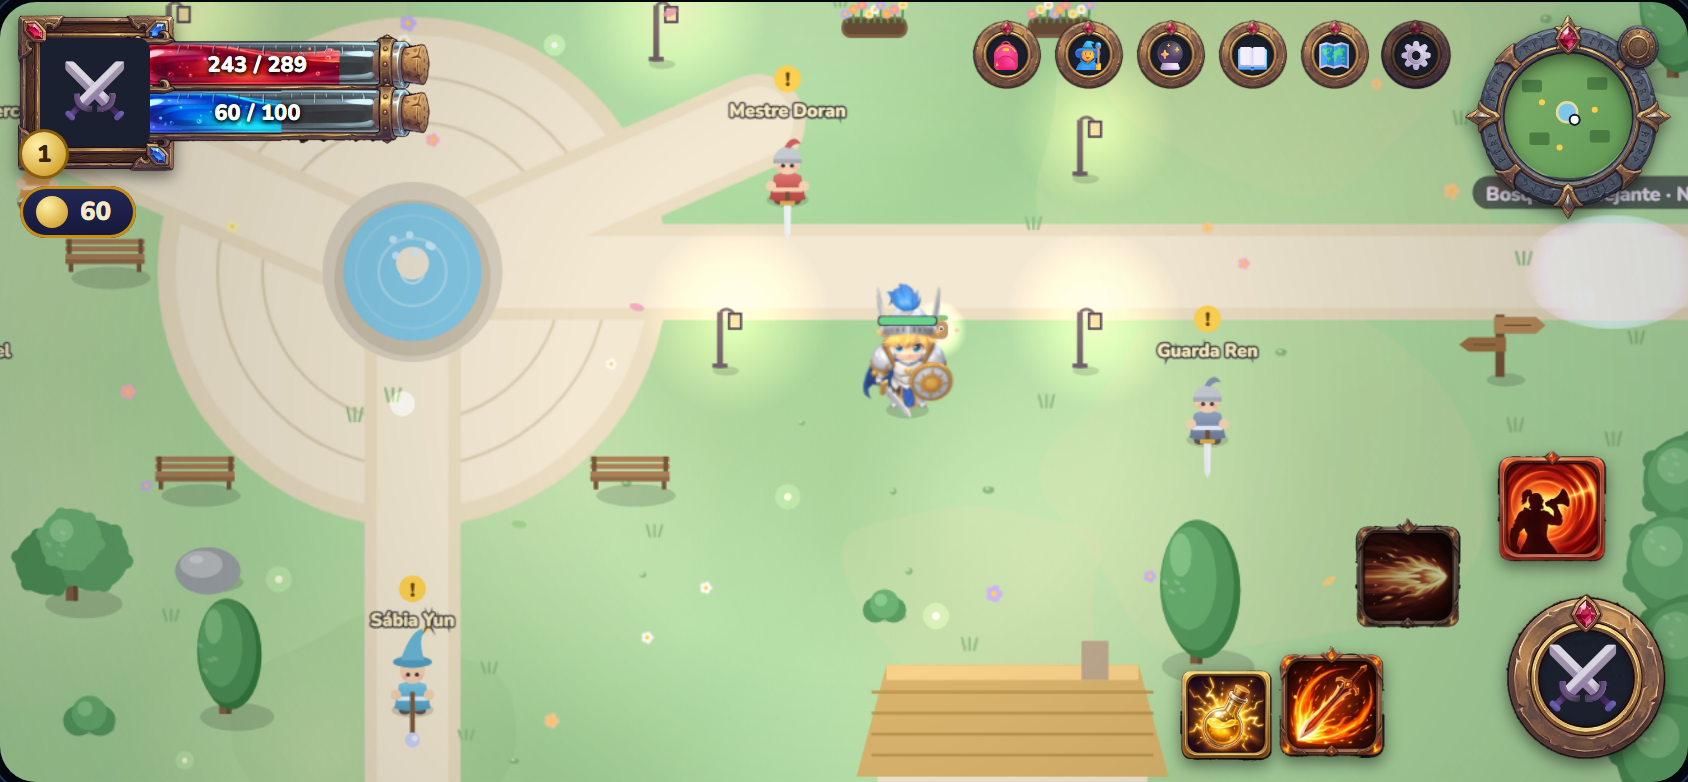
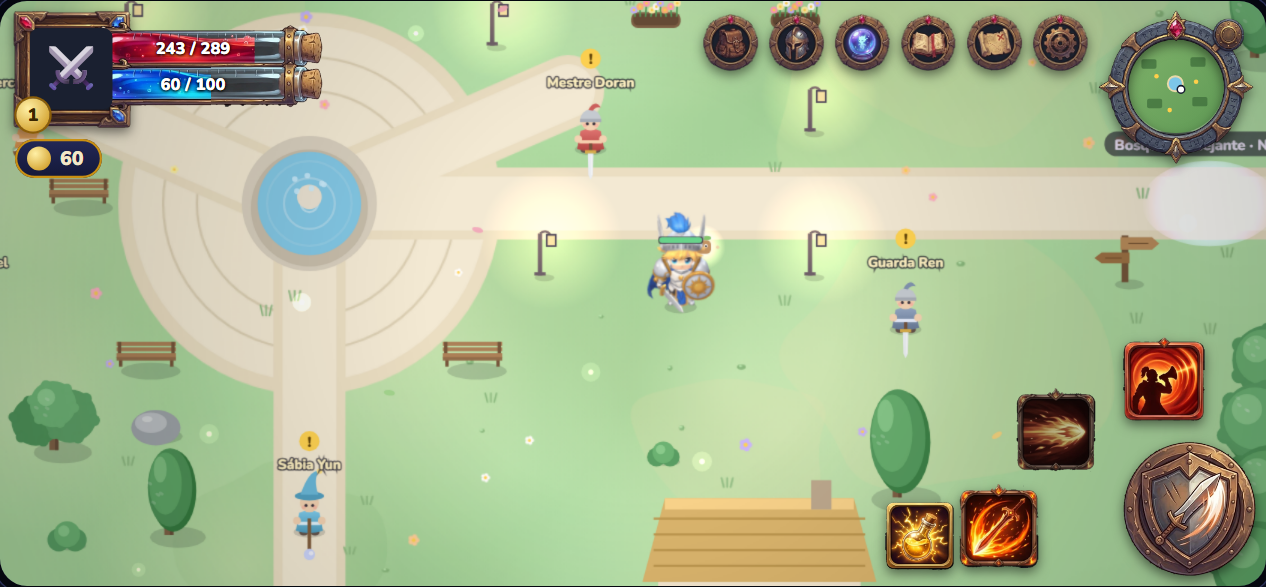
Ataque basico pintado das 4 classes no jogo real; recorte das 21 pecas da segunda leva (dica, faixa, dialogo, raridades, menu); HUD e kit do laboratorio com as pecas pintadas

diff --git a/public/labs/b1-ui/hud.html b/public/labs/b1-ui/hud.html
@@ -38,7 +38,7 @@
   /* medalhões de menu (3 estados) com ícone por cima */
   .med { position: relative; width: 36px; height: 36.7px; }
   .med img { position: absolute; inset: 0; width: 100%; height: 100%; } .med span { position: absolute; inset: 0; display: grid; place-items: center; font-size: 15px; padding-top: 2px; }
-  .menu { right: 118px; top: 8px; display: flex; gap: 5px; }
+  .menu { right: 118px; top: 8px; display: flex; gap: 6px; } .menu .mi { width: 38px; height: auto; }
   .med.off img { content: url(../../assets/ui/medal-disabled.webp); } .med.pressed img { content: url(../../assets/ui/medal-pressed.webp); }
 
   .skill { position: absolute; width: 56px; height: 56px; }
@@ -54,21 +54,21 @@
 <body>
 <main>
   <h1>HUD com as peças pintadas — proposta</h1>
-  <p class="n">Cartão do herói, barras de vida e mana como vidros de poção, minimapa redondo de runas, medalhões de menu, habilidades e botões: todas as peças são as imagens aprovadas (recortadas em <code>public/assets/ui</code>). <b>Provisórios aqui:</b> retrato do herói, ícones de menu e do ataque (emojis). Tamanhos reais de celular (844×390).</p>
+  <p class="n">Cartão do herói, barras de vida e mana como vidros de poção, minimapa redondo de runas, medalhões de menu, habilidades e botões: todas as peças são as imagens aprovadas (recortadas em <code>public/assets/ui</code>). <b>Provisório aqui:</b> só o retrato do herói (emoji); menu e ataque já são os ícones pintados. Tamanhos reais de celular (844×390).</p>
   <div class="stage" id="stage">
     <div class="abs hero"><img class="f" src="../../assets/ui/hero-card.webp" alt="" style="position:absolute;inset:0;width:100%;height:100%"><div class="portrait"><span>⚔</span></div><div class="lvl">1</div></div>
     <div class="vial" style="left:48px;top:13px;--v:.84"><img src="../../assets/ui/vial-empty.webp" alt=""><img class="fill" src="../../assets/ui/vial-hp.webp" alt=""><b>243 / 289</b></div>
     <div class="vial" style="left:48px;top:37px;--v:.6"><img src="../../assets/ui/vial-empty.webp" alt=""><img class="fill" src="../../assets/ui/vial-mp.webp" alt=""><b>60 / 100</b></div>
     <div class="abs gold"><span class="coin"></span>60</div>
 
-    <div class="abs menu"><div class="med"><img src="../../assets/ui/medal-normal.webp" alt=""><span>🎒</span></div><div class="med"><img src="../../assets/ui/medal-normal.webp" alt=""><span>🧙</span></div><div class="med"><img src="../../assets/ui/medal-normal.webp" alt=""><span>🔮</span></div><div class="med"><img src="../../assets/ui/medal-normal.webp" alt=""><span>📖</span></div><div class="med"><img src="../../assets/ui/medal-normal.webp" alt=""><span>🗺</span></div><div class="med pressed"><img src="../../assets/ui/medal-normal.webp" alt=""><span>⚙</span></div></div>
+    <div class="abs menu"><img class="mi f" src="../../assets/icons/menu/menu-bag.webp" alt=""><img class="mi f" src="../../assets/icons/menu/menu-hero.webp" alt=""><img class="mi f" src="../../assets/icons/menu/menu-spirits.webp" alt=""><img class="mi f" src="../../assets/icons/menu/menu-journal.webp" alt=""><img class="mi f" src="../../assets/icons/menu/menu-map.webp" alt=""><img class="mi f" src="../../assets/icons/menu/menu-settings.webp" alt=""></div>
     <div class="abs map"><div class="view"><svg viewBox="0 0 100 100"><g fill="#3d6b3a" opacity=".7"><rect x="14" y="22" width="16" height="10" rx="2"/><rect x="66" y="20" width="16" height="10" rx="2"/><rect x="20" y="64" width="16" height="10" rx="2"/><rect x="68" y="62" width="16" height="10" rx="2"/></g><circle cx="50" cy="48" r="8" fill="#7cc6e8" stroke="#e9d9a8" stroke-width="2"/><circle cx="56" cy="54" r="4" fill="#fff" stroke="#141a2e" stroke-width="1.6"/><g fill="#ffcf4a"><circle cx="30" cy="40" r="2.4"/><circle cx="72" cy="46" r="2.4"/><circle cx="44" cy="76" r="2.4"/></g></svg></div><img class="f" src="../../assets/ui/minimap-ring.webp" alt=""></div>
 
     <div class="skill" style="right:150px;bottom:12px"><img class="f" src="../../assets/icons/skills/whirlwind.webp" alt="" width="56" height="56"></div>
     <div class="skill" style="right:112px;bottom:76px"><img class="f" src="../../assets/icons/skills/charge.webp" alt="" width="56" height="56" style="filter:saturate(.5) brightness(.75)"></div>
     <div class="skill" style="right:40px;bottom:110px"><img class="f" src="../../assets/icons/skills/warcry.webp" alt="" width="56" height="56"></div>
     <div class="skill" style="right:208px;bottom:10px;width:46px;height:46px"><img class="f" src="../../assets/icons/status/potion.webp" alt="" width="46" height="46"></div>
-    <div class="abs med atk"><img class="f" src="../../assets/ui/medal-normal.webp" alt=""><span>⚔</span></div>
+    <img class="abs atk f" src="../../assets/icons/attack/atk-warrior.webp" alt="" style="right:6px;bottom:6px;width:90px;height:auto">
   </div>
 
   <h2>Botões pintados (normal, pressionado, desativado, principal)</h2>

diff --git a/public/labs/b1-ui/kit.html b/public/labs/b1-ui/kit.html
@@ -36,6 +36,12 @@
   .pa .ptitle { position: absolute; left: 50%; top: -74px; width: 230px; height: 56px; transform: translateX(-50%); display: grid; place-items: center; font: 800 14px var(--font-title); color: var(--ivory); letter-spacing: .8px; text-shadow: 0 2px 0 #000b; padding: 0 66px; text-align: center; white-space: nowrap; overflow: hidden; text-overflow: ellipsis; }
   .pa .x { position: absolute; right: -14px; top: -14px; width: 44px; height: 44px; font-size: 16px; }
 
+  /* peças pintadas de raridade, dica, faixa e diálogo (texto e ícone são código; só a "pele" é arte) */
+  .rc { position: relative; width: 74px; height: 74px; } .rc img { position: absolute; inset: 0; width: 100%; height: 100%; } .rc span { position: absolute; left: 22%; top: 22%; width: 56%; height: 56%; display: grid; place-items: center; font-size: 26px; } .rc small { position: absolute; left: 0; right: 0; bottom: -17px; text-align: center; font-size: 11px; color: #fff; text-shadow: 0 1px 2px #000; }
+  .tipimg { position: relative; width: 230px; } .tipimg img { width: 100%; display: block; } .tipimg div { position: absolute; left: 12%; right: 12%; top: 16%; bottom: 30%; font-size: 12.5px; line-height: 1.35; color: #e8dcc0; } .tipimg b { display: block; font: 800 14px var(--font-title); color: var(--gold-hi); }
+  .bannerimg { position: relative; width: 300px; } .bannerimg img { width: 100%; display: block; } .bannerimg b { position: absolute; inset: 0; display: grid; place-items: center; font: 800 20px var(--font-title); color: var(--gold-hi); text-shadow: 0 2px 0 #000b; }
+  .dialogimg { position: relative; width: 420px; } .dialogimg img { width: 100%; display: block; } .dialogimg div { position: absolute; left: 24%; right: 6%; top: 14%; bottom: 14%; font-size: 13px; line-height: 1.35; color: #f0e4c8; display: grid; align-content: center; } .dialogimg .who { font: 800 13px var(--font-title); color: var(--gold); }
+
   /* ---- botões ---- */
   .btn { min-height: var(--touch-min); padding: 0 20px; border-radius: var(--radius-m); border: 0; font: 800 14px var(--font-body); letter-spacing: .3px; cursor: pointer; color: var(--ivory); transition: transform var(--t-fast) var(--ease), filter var(--t-fast); }
   .btn:active { transform: translateY(1px) scale(.98); filter: brightness(1.15); }
@@ -83,6 +89,14 @@
 <main>
   <h1>Kit de interface — identidade v1</h1>
   <p class="n">Componentes da identidade (laje de pedra azul-noite com filete e gemas douradas, molduras por classe, botões de ouro, barras segmentadas, raridades com brilho). Tokens em <code>public/ui-tokens.css</code>. <b>Glifos dos ícones de menu continuam provisórios</b> (ver briefing). Alvos de toque ≥ 44 px, texto ≥ 12 px, respeita <code>prefers-reduced-motion</code>.</p>
+
+  <h2>PINTADO — raridades, dica, faixa de aviso e diálogo (peças geradas)</h2>
+  <div class="bg row" style="gap:18px;align-items:center">
+    <div class="row" style="gap:8px"><div class="rc"><img src="../../assets/ui/rarity-0.webp" alt=""><span>⚔</span><small>Comum</small></div><div class="rc"><img src="../../assets/ui/rarity-1.webp" alt=""><span>🛡</span><small>Incomum</small></div><div class="rc"><img src="../../assets/ui/rarity-4.webp" alt=""><span>🪖</span><small>Raro</small></div><div class="rc"><img src="../../assets/ui/rarity-6.webp" alt=""><span>💍</span><small>Épico</small></div><div class="rc"><img src="../../assets/ui/rarity-5.webp" alt=""><span>🗡</span><small>Lendário</small></div></div>
+    <div class="tipimg"><img src="../../assets/ui/tip.webp" alt=""><div><b>Poção de Vida</b>Cura 35% da vida. Recarga 8s.</div></div>
+    <div class="bannerimg"><img src="../../assets/ui/banner.webp" alt=""><b>Nível 5!</b></div>
+    <div class="dialogimg"><img src="../../assets/ui/dialog.webp" alt=""><div><span class="who">Guarda Ren</span>Os limos estão tomando a trilha. Derrote 8 deles e volte aqui.</div></div>
+  </div>
 
   <h2>NOVO — painel com a moldura pintada (peça gerada pelo proprietário)</h2>
   <p class="n">Pedra entalhada com runas, cantos de bronze com gemas e plaqueta com asas: é a moldura do Prompt 1, cortada em 9 fatias (estica sem deformar os cantos). Compare com a versão em CSS puro mais abaixo.</p>

diff --git a/public/src/ui/ui.js b/public/src/ui/ui.js
@@ -10,7 +10,7 @@ import { MODES, getRating } from '../core/match.js';
 import { MOBS } from '../data/mobs.js';
 import { playerPower, pvpUnlocked, PVP_MIN_LEVEL } from '../core/power.js';
 import { PRICES } from '../shop.js';
-import { skillImg, iconImg, POTION_ICON, preloadSkillIcons, skillCategory, CATEGORIES } from '../render/skill-icons.js';
+import { skillImg, attackImg, iconImg, POTION_ICON, preloadSkillIcons, skillCategory, CATEGORIES } from '../render/skill-icons.js';
 import { MAX_PLUS, PLUS_BONUS, plusMul, enhanceCost } from '../core/enhance.js';
 import { QUESTS } from '../data/quests.js';
 import { ACHIEVEMENTS } from '../data/achievements.js';
@@ -211,7 +211,7 @@ export class UI {
     $('hud-portrait').textContent = cls.icon;
     $('hud-portrait').style.setProperty('--cc', cls.color);
     const slots = [
-      { key: 'LMB', id: 'basic', icon: '🖱', tip: 'skill:basic' },
+      { key: 'LMB', id: 'basic', icon: attackImg(char.classId, '🖱'), art: true, tip: 'skill:basic' },
       ...cls.skills.map((s, i) => ({ key: String(i + 1), id: 's' + i, icon: skillImg(s, SKILLS[s].icon), art: true, cat: skillCategory(skillOf(char.classId, null, s)), tip: 'skill:' + s })),
       { key: 'Q', id: 'potion', icon: iconImg(POTION_ICON, '🧪'), art: true, tip: 'potion' },
       { key: 'H', id: 'hearth', icon: '🏠', tip: 'hearth' },
@@ -221,7 +221,7 @@ export class UI {
         <span class="icon">${s.icon}</span>${s.cat ? `<i class="cat cat-${s.cat}" title="${CATEGORIES[s.cat]}"></i>` : ''}<span class="key">${s.key}</span>
         <div class="cd"></div><span class="cdt"></span>${s.id === 'potion' ? '<span class="count" id="potion-count"></span>' : ''}
       </div>`).join('') + '<div class="slot spirit" id="slot-spirit" data-tip="spirit-active"><span class="icon" id="spirit-icon"></span><span class="key">P</span></div>';
-    preloadSkillIcons(cls.skills);
+    preloadSkillIcons(cls.skills, char.classId);
     this.cache.clear();
   }
 
@@ -258,7 +258,7 @@ export class UI {
       const cd = cdOf[id];
       const pct = cd > 0 ? Math.min(1, cd / maxOf[id]) : 0;
       this.set(`slot-${id}`, '--p', pct.toFixed(3));
-      this.set(`slot-${id}`, 'class', 'slot' + (id.startsWith('s') && id !== 'spirit' || id === 'potion' ? ' art' : '') + (id.startsWith('s') && (player.stunT > 0 || player.dead || player.dash) ? ' blocked' : '') + (cd > 0 ? ' cooling' : '') + (id === 'potion' && (!char.potions || game.mode === 'pvp' || game.mode === 'net') ? ' empty' : ''));
+      this.set(`slot-${id}`, 'class', 'slot' + (id.startsWith('s') && id !== 'spirit' || id === 'potion' || id === 'basic' ? ' art' : '') + (id.startsWith('s') && (player.stunT > 0 || player.dead || player.dash) ? ' blocked' : '') + (cd > 0 ? ' cooling' : '') + (id === 'potion' && (!char.potions || game.mode === 'pvp' || game.mode === 'net') ? ' empty' : ''));
     }
     for (const id of ['s0', 's1', 's2']) {
       const cd = player.cds[id];

diff --git a/tests/e2e/skill-icons.spec.js b/tests/e2e/skill-icons.spec.js
@@ -20,8 +20,10 @@ for (const classe of CLASSES) {
     await criar(page, classe);
     await page.waitForTimeout(800);
     expect(await carregou(page, '#touch .tbtn.sk img.art')).toEqual([true, true, true]);
+    expect(await carregou(page, '#touch .tbtn.atk img.art')).toEqual([true]); // ataque básico da classe
+    expect(await page.evaluate(() => document.querySelector('#touch .tbtn.atk img.art').src)).toContain(`/attack/atk-${classe}.webp`);
     expect(await carregou(page, '#touch .tbtn.pot img.art')).toEqual([true]);
-    expect(await carregou(page, '#skillbar .slot.art img.art')).toEqual([true, true, true, true]); // 3 habilidades + poção (barra existe no DOM, oculta no toque)
+    expect(await carregou(page, '#skillbar .slot.art img.art')).toEqual([true, true, true, true, true]); // ataque + 3 habilidades + poção (barra existe no DOM, oculta no toque)
     // recarga radial: ao usar a habilidade 1 o anel (--p) vai a 1 e o número aparece
     await page.evaluate(() => { const g = window.game; g.player.cds.s0 = 4; });
     await page.waitForTimeout(250);
@@ -35,7 +37,7 @@ for (const classe of CLASSES) {
 
 test('modo teclado: a barra mostra a arte com a tecla, e o tooltip tem ícone, nome e recarga', async ({ page }) => {
   await criar(page, 'mage', { scale: 100, quality: 'auto', controls: 'keyboard' });
-  expect(await carregou(page, '#skillbar .slot.art img.art')).toEqual([true, true, true, true]);
+  expect(await carregou(page, '#skillbar .slot.art img.art')).toEqual([true, true, true, true, true]); // ataque + 3 habilidades + poção
   await page.hover('#slot-s0');
   const tip = page.locator('#tooltip');
   await expect(tip).toBeVisible();
@@ -63,7 +65,7 @@ test('categorias e estado indisponível: selo de categoria em cada habilidade, t
   await page.evaluate(() => { window.game.player.stunT = 1; });
   await page.waitForTimeout(250);
   expect(await page.evaluate(() => [...document.querySelectorAll('#touch .tbtn.sk')].every((b) => b.classList.contains('blocked')))).toBe(true);
-  expect(await page.evaluate(() => [...document.querySelectorAll('#skillbar .slot.art')].filter((b) => b.id !== 'slot-potion').every((b) => b.classList.contains('blocked')))).toBe(true);
+  expect(await page.evaluate(() => ['slot-s0', 'slot-s1', 'slot-s2'].every((id) => document.getElementById(id).classList.contains('blocked')))).toBe(true);
   await page.screenshot({ path: 'test-results/icones-bloqueado.png' });
   await page.evaluate(() => { window.game.player.stunT = 0; });
   await page.waitForTimeout(250);

diff --git a/public/src/render/skill-icons.js b/public/src/render/skill-icons.js
@@ -1,12 +1,15 @@
 // Ícones das habilidades (arte em public/assets/icons). Um só lugar decide o caminho: a UI, o toque e os tooltips usam estas funções.
 // A mecânica não depende disto (data/skills.js segue com o emoji como reserva se a imagem não carregar).
 export const skillIconUrl = (id) => `assets/icons/skills/${id}.webp`;
+// Ataque básico: um emblema por classe (escudo de bronze, runas arcanas, folhas, asas de ouro)
+export const attackIconUrl = (classId) => `assets/icons/attack/atk-${classId}.webp`;
+export const attackImg = (classId, emoji = '', cls = 'art') => iconImg(attackIconUrl(classId), emoji, cls);
 export const POTION_ICON = 'assets/icons/status/potion.webp';
 // <img> pronto; `emoji` vira o texto alternativo (aparece se o arquivo falhar)
 export const iconImg = (src, emoji = '', cls = 'art') => `<img class="${cls}" src="${src}" alt="${emoji}" draggable="false" decoding="async">`;
 export const skillImg = (id, emoji = '', cls = 'art') => iconImg(skillIconUrl(id), emoji, cls);
 // aquece o cache do navegador (evita o ícone "piscar" ao abrir a barra)
-export function preloadSkillIcons(ids) { for (const id of [...ids, null]) { const i = new Image(); i.src = id ? skillIconUrl(id) : POTION_ICON; } }
+export function preloadSkillIcons(ids, classId = null) { if (classId) new Image().src = attackIconUrl(classId); for (const id of [...ids, null]) { const i = new Image(); i.src = id ? skillIconUrl(id) : POTION_ICON; } }
 
 // Categoria da habilidade para a interface (cor + FORMA, para não depender só da cor): dano, cura, buff (reforço/proteção/mobilidade) ou controle (atordoa/desacelera).
 // Calculada dos dados reais de data/skills.js: não há campo novo e a mecânica não muda.

diff --git a/public/src/touch.js b/public/src/touch.js
@@ -3,7 +3,7 @@
 import { CLASSES } from './data/classes.js';
 import { SKILLS } from './data/skills.js';
 import { skillOf } from './core/specs.js';
-import { skillImg, iconImg, POTION_ICON, skillCategory, CATEGORIES } from './render/skill-icons.js';
+import { skillImg, attackImg, iconImg, POTION_ICON, skillCategory, CATEGORIES } from './render/skill-icons.js';
 import { stickVector, pickAim, aimModeFor, dragAim } from './touch-logic.js';
 
 const $ = (id) => document.getElementById(id);
@@ -135,7 +135,7 @@ export class TouchControls {
   // Ícones dependem da classe escolhida.
   setup(char) {
     const cls = CLASSES[char.classId];
-    $('t-atk-icon').textContent = cls.icon;
+    $('t-atk-icon').innerHTML = attackImg(char.classId, cls.icon);
     cls.skills.forEach((s, i) => {
       const b = this.root.querySelector(`.sk${i}`), c = skillCategory(skillOf(char.classId, null, s));
       b.querySelector('.icon').innerHTML = skillImg(s, SKILLS[s].icon);

diff --git a/public/style.css b/public/style.css
@@ -405,3 +405,9 @@ body.touch .menu-btns button { width: 44px; height: 40px; }
 .tt-cat { background: none; position: static; width: auto; height: auto; transform: none; clip-path: none; box-shadow: none; }
 .slot.art.blocked .icon img, .tbtn.sk.blocked .icon img { filter: grayscale(1) brightness(.55); }
 .slot.art.blocked::after, .tbtn.sk.blocked::after { content: '✕'; position: absolute; inset: 0; display: grid; place-items: center; color: rgba(255,120,120,.85); font: 900 22px Nunito, sans-serif; text-shadow: 0 1px 4px #000; pointer-events: none; z-index: 3; }
+
+/* ---- ataque básico com arte própria por classe (emblema redondo; o recarga cônica continua por cima) ---- */
+.tbtn.atk { background: none; border: 0; box-shadow: none; }
+.tbtn.atk .icon { position: absolute; inset: -3px; font-size: 0; }
+.tbtn.atk.down { filter: brightness(1.25); }
+.slot.art .icon img.art[src*="/attack/"] { border-radius: 50%; }

diff --git a/tests/skill-icons.test.js b/tests/skill-icons.test.js
@@ -23,3 +23,8 @@ test('categoria de cada habilidade (dano/cura/reforço/controle) sai dos dados r
   const esperado = { whirlwind: 'dano', charge: 'controle', warcry: 'buff', fireball: 'dano', frostnova: 'controle', blink: 'buff', rain: 'dano', pierce: 'dano', roll: 'buff', holylight: 'cura', divineshield: 'buff', judgement: 'controle' };
   for (const [id, cat] of Object.entries(esperado)) assert.equal(skillCategory(SKILLS[id]), cat, id);
 });
+
+import { attackIconUrl } from '../public/src/render/skill-icons.js';
+test('as 4 classes têm o emblema do ataque básico e ele é leve', () => {
+  for (const id of Object.keys(CLASSES)) { const f = 'public/' + attackIconUrl(id); assert.ok(existsSync(f), 'falta ' + f); assert.ok(statSync(f).size > 5000 && statSync(f).size < 150_000, f); }
+});

diff --git a/tools/ui-pieces-from-sheets.py b/tools/ui-pieces-from-sheets.py
@@ -62,3 +62,33 @@ im, boxes, bg = sheet('minimapa-redondo.jpg'); save(cut(im, boxes[0], bg, hole=(
 # medalhão de botão (3 estados), miolo escuro mantido (o ícone vai por cima)
 im, boxes, bg = sheet('medalhao-3-estados.png')
 for (n, b) in zip(['medal-normal', 'medal-pressed', 'medal-disabled'], same_window(boxes[:3])): save(cut(im, b, bg), n + '.webp')
+
+# ---- segunda leva: dica/faixa/diálogo, raridades (com brilho), ataques básicos e ícones de menu ----
+def cut_soft(im, box, bg, pad=10):
+    """peças com BRILHO ao redor (raridades): o brilho vira transparência suave; a moldura e o miolo ficam opacos"""
+    x0, y0, x1, y1 = box; x0 = max(0, x0 - pad); y0 = max(0, y0 - pad); x1 = min(im.width, x1 + pad); y1 = min(im.height, y1 + pad)
+    crop = im.crop((x0, y0, x1, y1)).convert('RGB'); a = np.asarray(crop).astype(int)
+    d = np.abs(a - bg).sum(axis=2)
+    strong = ndi.binary_closing(d > 70, iterations=3); filled = ndi.binary_fill_holes(strong)
+    soft = np.clip((d - 14) / 90.0, 0, 1)
+    alpha = np.maximum(filled.astype(float), soft * (~filled)) * 255
+    out = crop.convert('RGBA'); out.putalpha(Image.fromarray(alpha.astype(np.uint8))); return out
+
+def fit(img, n=256):
+    """reduz para no máximo n px (o botão de ataque aparece com ~84 px; 256 cobre telas 3×)"""
+    r = n / max(img.size); return img.resize((round(img.width * r), round(img.height * r)), Image.LANCZOS) if r < 1 else img
+
+def save_to(img, folder, name):
+    os.makedirs(os.path.join(root, 'public/assets', folder), exist_ok=True)
+    img.save(os.path.join(root, 'public/assets', folder, name), 'WEBP', quality=94, method=6); print('ok', folder + '/' + name, img.size)
+
+im, boxes, bg = sheet('dica-faixa-dialogo.png')
+for n, b in zip(['tip', 'banner', 'dialog'], boxes[:3]): save(cut(im, b, bg), n + '.webp')
+im, _, bg = sheet('raridades-7.jpg')
+# caixas fixas (os brilhos juntam as molduras na detecção automática): 0 comum · 1 verde/folhas · 2 lilás · 3 musgo · 4 prata com cristais · 5 ouro com asas e chamas · 6 roxa com runas
+RARITY_BOXES = [(70, 85, 325, 335), (355, 50, 665, 350), (700, 85, 955, 335), (40, 360, 350, 660), (370, 370, 660, 660), (660, 340, 990, 650), (350, 670, 670, 975)]
+for i, b in enumerate(RARITY_BOXES): save(cut_soft(im, b, bg, pad=0), f'rarity-{i}.webp')
+im, boxes, bg = sheet('ataques-4-classes.jpg')
+for n, b in zip(['warrior', 'mage', 'archer', 'cleric'], boxes[:4]): save_to(fit(cut(im, b, bg)), 'icons/attack', f'atk-{n}.webp')
+im, boxes, bg = sheet('menu-7-icones.jpg')
+for n, b in zip(['bag', 'hero', 'spirits', 'journal', 'map', 'party', 'settings'], boxes[:7]): save_to(fit(cut(im, b, bg)), 'icons/menu', f'menu-{n}.webp')

diff --git a/docs/CREDITOS.md b/docs/CREDITOS.md
@@ -27,3 +27,4 @@ Atualizado em 2026-10-31. A licença CC BY 4.0 exige atribuição: este texto de
 ## Interface pintada (arte gerada)
 - Moldura de painel de pedra com cantos de bronze, gemas e plaqueta com asas (`public/assets/ui/panel-9.webp`, `plaque.webp`) e a folha de conceito do HUD (`docs/art-direction/fontes-ui/`): imagens **geradas por IA** fornecidas pelo proprietário a partir dos prompts de `docs/art-direction/prompts-ui-fantasia.md`; recorte reproduzível com `tools/ui-frame-from-sheet.py`. Ferramenta, prompt exato e termos de uso: **a confirmar com o proprietário** antes de publicar.
 - Peças de interface pintadas (botões, cartão do herói, barras de poção, minimapa redondo, medalhão): folhas em `docs/art-direction/fontes-ui/`, recortadas com `tools/ui-pieces-from-sheets.py` para `public/assets/ui/*.webp`. Origem, prompt e termos de uso: **a confirmar com o proprietário**.
+- Segunda leva de peças pintadas (dica, faixa de aviso, diálogo, 7 molduras de raridade, **4 emblemas de ataque básico** em `public/assets/icons/attack/` e **7 ícones de menu** em `public/assets/icons/menu/`): folhas em `docs/art-direction/fontes-ui/`, mesmo recorte (`tools/ui-pieces-from-sheets.py`). Origem, prompt e termos: **a confirmar com o proprietário**. Os emblemas de ataque já estão no jogo real; os de menu e as raridades estão só no laboratório (B5).

diff --git a/docs/roadmap/pendencias.md b/docs/roadmap/pendencias.md
@@ -53,3 +53,5 @@ Lista viva: o que ficou sem fazer, sem validar ou dependente de você. Atualizad
 - [x] Peças pintadas recebidas e recortadas: painel (9 fatias), botões ×4, cartão do herói, barras de poção (vazio/vida/mana), minimapa redondo, medalhão ×3 → `/labs/b1-ui/hud.html` (HUD completo) e `/labs/b1-ui/kit.html`.
 - [ ] **Reenviar 4 folhas que não foram gravadas como arquivo** (só apareceram na conversa): tooltip/faixa/diálogo, 7 molduras de raridade, 4 ataques básicos, 7 ícones de menu.
 - [ ] B5: aplicar o HUD pintado no jogo real (retrato real do herói, ícones de menu e ataque pintados), com medição de desempenho.
+- [x] 4 folhas reenviadas e recortadas (21 peças). **Ataque básico das 4 classes já está no jogo real** (botão de toque e barra do teclado).
+- [ ] B5: aplicar no jogo real os ícones de menu pintados, raridades (7 molduras: comum=0, incomum=1, raro=4, épico=6, lendário=5; 2 e 3 sobram), dica/faixa/diálogo, cartão do herói, barras de poção e minimapa de runas. Falta o **retrato do herói** (hoje emoji no laboratório).
